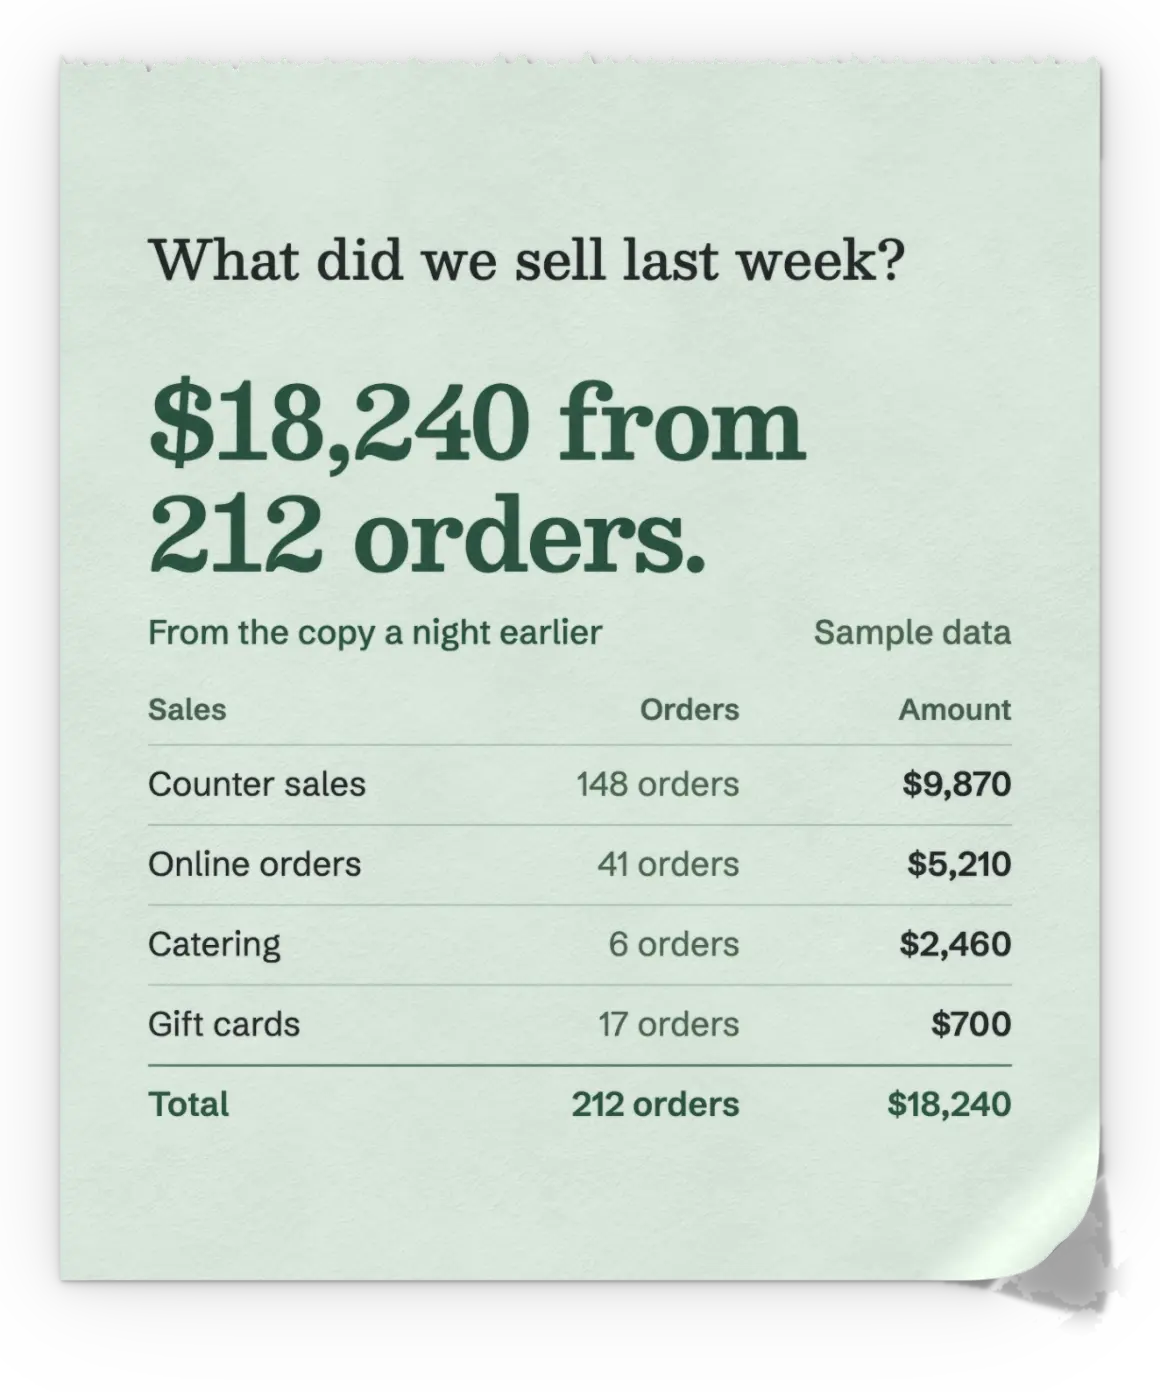
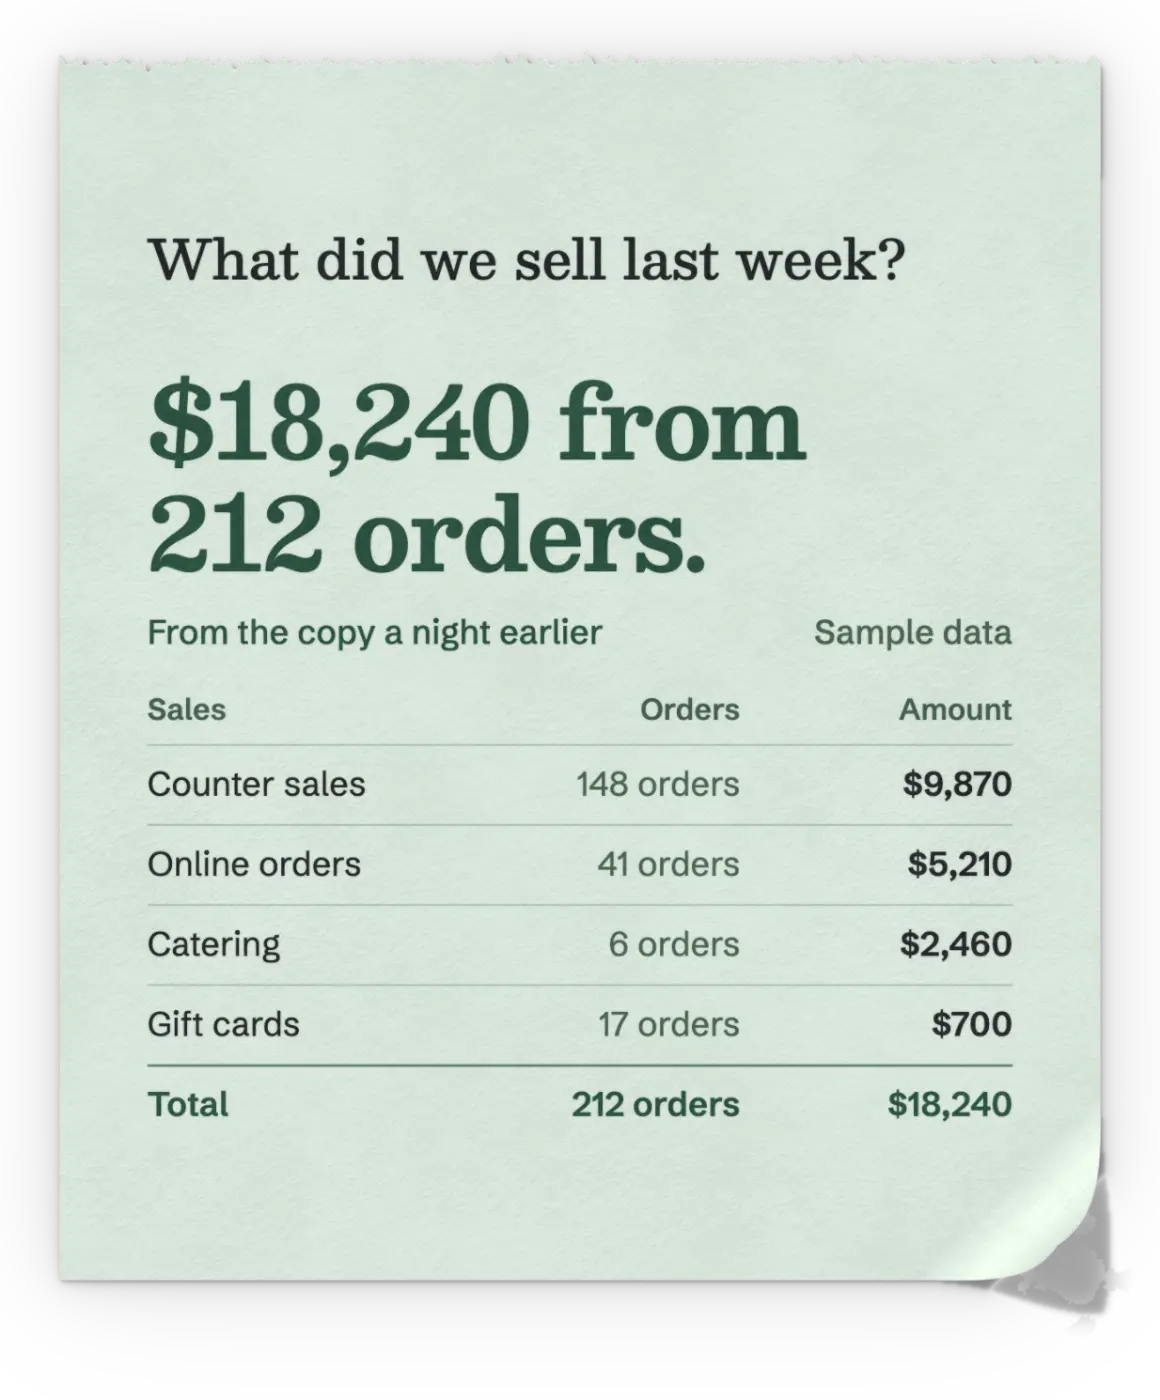
Solid rip, blank sheet under the peel, headline re-broken

diff --git a/motion.js b/motion.js
@@ -596,25 +596,11 @@ function idTexture(boxes) {   // each printed item of the copy as a flat block o
   for (const [k, v] of [[gl.TEXTURE_MIN_FILTER, gl.NEAREST], [gl.TEXTURE_MAG_FILTER, gl.NEAREST], [gl.TEXTURE_WRAP_S, gl.CLAMP_TO_EDGE], [gl.TEXTURE_WRAP_T, gl.CLAMP_TO_EDGE]]) gl.texParameteri(gl.TEXTURE_2D, k, v);
   return t;
 }
-function updateVis(tp) {   // which items of the copy the top sheet still covers, read from a small coverage render
-  const w = cov.w, h = cov.h;
-  gl.bindFramebuffer(gl.FRAMEBUFFER, cov.f); gl.viewport(0, 0, w, h);
-  gl.clearColor(0, 0, 0, 0); gl.clear(gl.COLOR_BUFFER_BIT); gl.disable(gl.BLEND);
-  drawSheets(2, st.p, tp);
-  gl.readPixels(0, 0, w, h, gl.RGBA, gl.UNSIGNED_BYTE, cov.buf);
-  const k = CAM_D / (CAM_D - Z_GREEN), sx = w / view.W, sy = h / view.H;
-  const X = u => (view.ox + (CAM[0] + (u - CAM[0]) * k) * view.s) * sx, Y = v => (view.oy + (CAM[1] + (v - CAM[1]) * k) * view.s) * sy;
-  let moving = false;
-  wordsCopy.slice(0, 48).forEach(([x0, y0, x1, y1], i) => {
-    const a0 = Math.max(0, Math.floor(X(x0 - 3))), a1 = Math.min(w - 1, Math.ceil(X(x1 + 3)));
-    const b0 = Math.max(0, Math.floor(Y(y0 - 3))), b1 = Math.min(h - 1, Math.ceil(Y(y1 + 3)));
-    let covered = false;
-    for (let yy = b0; yy <= b1 && !covered; yy++) { const row = (h - 1 - yy) * w; for (let xx = a0; xx <= a1; xx++) if (cov.buf[(row + xx) * 4 + 3] > 0) { covered = true; break; } }
-    const v = st.vis[i];
-    st.vis[i] = covered ? 0 : Math.min(1, v + st.dt / 110);   // hidden at once while covered; inks in quickly once wholly clear
-    if (st.vis[i] !== v && st.vis[i] < 1 && !covered) moving = true;
-  });
-  st.visMoving = moving;
+function updateVis() {   // the copy's print, all at once: none while the sheet is attached, all once it is torn free
+  const target = st.p >= T_TORN - 0.004 ? 1 : 0, v = (FIXED !== null || st.dbg) ? target : st.vis[0];
+  const nv = target ? Math.min(1, v + st.dt / 90) : 0;   // a 90 ms ease in, which nobody sees, under the leaving sheet
+  st.vis.fill(nv);
+  st.visMoving = nv > 0 && nv < 1;
 }
 function drawApp(phone) {         // the grey top sheet: the invoicing app's page, printed on coated stock
   const { cv, c } = inkCanvas();
@@ -650,7 +636,7 @@ function drawApp(phone) {         // the grey top sheet: the invoicing app's pag
 }
 
 // ---------------------------------------------------------------- state
-let inkIds = null, cov = null, phone = false, view = null, inkCopy = null, inkApp = null, wordsCopy = null, wordsApp = null, need = true;
+let inkIds = null, phone = false, view = null, inkCopy = null, inkApp = null, wordsCopy = null, wordsApp = null, need = true;
 let paperTex, edgeTex, meshBoard, meshStack, meshGreen, meshFringe, meshBind, meshTop;
 let maps = null;   // shadow map pyramid
 let DBG = null;    // 'app' | 'copy': tools/inkcheck.py draws one sheet alone
@@ -688,8 +674,7 @@ function resize() {
   if (maps) for (const m of maps.list) { gl.deleteTexture(m.t); gl.deleteFramebuffer(m.f); }
   const list = [0, 1, 2, 3, 4, 5, 6].map(() => mkTarget(mw, mh));
   maps = { w: mw, h: mh, k: mk, list, S: list.slice(0, 6), tmp: list[6] };
-  if (cov) { gl.deleteTexture(cov.t); gl.deleteFramebuffer(cov.f); }
-  { const w = Math.max(4, Math.round(view.W / 3)), h = Math.max(4, Math.round(view.H / 3)); cov = { ...mkTarget(w, h), w, h, buf: new Uint8Array(w * h * 4) }; }
+
   need = true;
 }
 function buildInk() {
@@ -698,7 +683,7 @@ function buildInk() {
   WORDS = []; inkCopy = tex(drawCopy(phone, slip), true, gl.CLAMP_TO_EDGE); wordsCopy = WORDS;   // the boxes, for tools/inkcheck.py
   WORDS = []; inkApp = tex(drawApp(phone), true, gl.CLAMP_TO_EDGE); wordsApp = WORDS;
   if (inkIds) gl.deleteTexture(inkIds);
-  inkIds = idTexture(wordsCopy); st.vis = new Float32Array(48).fill(1);
+  inkIds = idTexture(wordsCopy); st.vis = new Float32Array(48).fill(0);
   WORDS = null;
 }
 function buildMeshes() {
@@ -744,12 +729,13 @@ const endL = d => d <= PW ? [PW - d, PH] : [0, PH - (d - PW)];   // along the bo
 const endR = d => [PW, PH - d];
 function tearParams(p, aoff = 0) {
   let lift = 0, front = PW + 2, pull = [0, 0, 0, 0], fly = null, open = [1, 0, 0, 0];
-  const t = clamp(p / PA), e = 0.25 * t + 0.75 * ease(t);
-  // the resting corner: long along the bottom margin and low up the side, so it stays in the margin under the Total row
-  const dL0 = phone ? 232 : 240, dR0 = phone ? 84 : 86;
-  const g = smooth(PA, T_TORN, p);   // the corner keeps curling a little while the hand lifts
-  const dL = lerp(dL0, 360, e) + 30 * g, dR = lerp(dR0, 270, e) + 20 * g;
-  const R = lerp(33, 35, Math.pow(t, 0.7)), k = lerp(-0.12, -0.06, t);
+  // the peel: from rest to the strain the corner curl alone grows, steadily from the first step (the held sheet stays flat)
+  const t = clamp(p / P_TH), e = 0.45 * t + 0.55 * ease(t);
+  // the resting corner: long along the bottom margin and low up the side
+  const dL0 = phone ? 262 : 244, dR0 = phone ? 100 : 88;
+  const g = smooth(P_TH, T_TORN, p);   // in the rip the corner curls a little more as the sheet goes
+  const dL = lerp(dL0, 400, e) + 24 * g, dR = lerp(dR0, 300, e) + 16 * g;
+  const R = lerp(phone ? 38 : 33, 37, t), k = lerp(-0.12, -0.06, t);
   let { nn, c } = foldFrom(endL(dL), endR(dR));
   if (aoff) {                                    // the drag direction turns the curl a little about its middle
     const m = [(endL(dL)[0] + endR(dR)[0]) / 2, (endL(dL)[1] + endR(dR)[1]) / 2];
@@ -757,18 +743,18 @@ function tearParams(p, aoff = 0) {
     nn = [Math.cos(a), Math.sin(a)]; c = nn[0] * m[0] + nn[1] * m[1];
   }
   // the lift: the sheet bends up off the pad about a hinge line that climbs from the bottom to just under the perforation
-  const tl = smooth(PA, T_LIFT + 0.03, p);
+  const tl = smooth(P_TH, T_TORN, p);            // only in the rip: the sheet bends up off the pad as it is pulled away
   const hinge = lerp(PH - 10, 26, Math.pow(tl, 0.8));
-  let phiMax = 0.74 * smooth(PA, T_LIFT, p) + 0.2 * smooth(T_LIFT, T_TORN, p);   // the bend at the bottom edge, radians
-  lift = 2.4 * smooth(T_LIFT - 0.06, T_LIFT, p) * (1 - smooth(T_TORN - 0.03, T_TORN + 0.01, p));   // tension along the perforation
-  if (p >= T_LIFT) {
-    const tt = clamp((p - T_LIFT) / (T_TORN - T_LIFT));
+  let phiMax = 0.6 * tl;                          // the bend at the bottom edge, radians
+  lift = 1.4 * smooth(P_TH - 0.1, P_TH, p) * (1 - smooth(T_TORN - 0.03, T_TORN + 0.01, p));   // tension along the perforation
+  if (p >= P_TH) {
+    const tt = clamp((p - P_TH) / (T_TORN - P_TH));
     let f = PW * (1 - (0.2 * tt + 0.8 * ease(tt)));
     const kk = f / PITCH, fr = kk - Math.floor(kk);
     f = (Math.floor(kk) + smooth(0.3, 0.8, fr)) * PITCH;   // it hangs on each bridge, then lets go
     front = tt >= 1 ? -2 : f;
-    pull[3] = 4.5 * smooth(0, 0.3, tt);                      // the torn top edge springs up off the stub
-    pull[2] = 8 * smooth(0, 0.25, tt);                       // and draws back from it: a clean gap, not two edges over each other
+    pull[3] = 0;                                             // the torn top edge stays down on the pad: no lifted sliver
+    pull[2] = 5 * smooth(0, 0.25, tt);                       // and draws back from it: a clean gap, not two edges over each other
   }
   let fade = 0;
   if (p > T_TORN) {
@@ -780,7 +766,7 @@ function tearParams(p, aoff = 0) {
     const th = 1.5 * (0.35 * tf + 0.65 * ease(clamp(tf / 0.85)));   // a steady turn over the whole span
     phiMax = lerp(phiMax, 0.12, ease(clamp(tf / 0.3)));   // it keeps only a faint curve
     open = [R, k, 5000, 0.9 * ease(clamp(tf / 0.3))];       // and the corner curl springs open
-    pull[3] = lerp(4.5, 0, e1); pull[2] = 8;
+    pull[3] = 0; pull[2] = 5;
     const carry = Math.pow(smooth(0.34, 0.97, tf), 1.8);
     fly = { pitch: th, yaw: 0.12 * smooth(0.4, 1, tf), roll: -0.20 * smooth(0.4, 1, tf),
             t: [(phone ? 820 : 800) * carry, -8 * smooth(0, 0.4, tf), 36 * smooth(0, 0.3, tf)] };
@@ -910,7 +896,7 @@ function drawSheets(pass, P, tp) {
     gl.uniform1f(g.uFly, f); };
   // once it is free and thinning out, the sheet is drawn after the binding, so the binding shows through it, never cut away
   if (tp.fly) bind();
-  if (pass === 0 && st.trail && st.trail.length) {   // motion blur: the sheet a few milliseconds earlier, fainter, under it
+  if (false && pass === 0 && st.trail && st.trail.length) {   // motion blur: the sheet a few milliseconds earlier, fainter, under it
     gl.depthMask(false);
     for (const [pp, al] of st.trail) {
       const tq = tearParams(pp); if (tq.gone || !tq.fly) continue;
@@ -960,7 +946,7 @@ function frame(P) {
   bindShadows(g);
   gl.bindVertexArray(quadVao); gl.drawArrays(gl.TRIANGLE_STRIP, 0, 4);
   // 4. the paper (first: which items of the copy are uncovered)
-  if (!SHEET && cov) updateVis(tp);
+  if (!SHEET) updateVis();
   gl.bindFramebuffer(gl.FRAMEBUFFER, null); gl.viewport(0, 0, canvas.width, canvas.height);
   gl.enable(gl.BLEND); gl.blendEquation(gl.FUNC_ADD); gl.blendFunc(gl.ONE, gl.ONE_MINUS_SRC_ALPHA);
   drawSheets(0, P, tp);
@@ -1100,7 +1086,7 @@ function tick(now) {
     frame(st.p);
     st.frameMs.push(performance.now() - t0); if (st.frameMs.length > 600) st.frameMs.shift();
     need = false;
-    hint.style.opacity = String(1 - smooth(0.165, 0.185, st.p));   // the hint stays through the early peel, then goes at once
+    hint.style.opacity = st.mode === 'peel' && !st.dbg ? '1' : '0';   // the hint is there for the whole peel, gone once the sheet rips
     handle.style.display = st.mode === 'peel' ? '' : 'none';
     setLabel(st.p >= T_SAY);                    // the next step changes only once the sheet has gone
     doc.classList.toggle('is-torn', st.p >= T_SAY);

diff --git a/index.html b/index.html
@@ -119,14 +119,14 @@ html:not(.gl).is-torn .poster, html:not(.js) .hero:target .poster { visibility: 
   .gl .pin { height: 230svh; }
   .gl .hero { position: sticky; top: 0; }
   .frame { width: calc(1440 * var(--u)); height: calc(900 * var(--u)); }
-  .hero .brand { position: absolute; left: calc(104 * var(--u)); top: calc(36 * var(--u)); }
+  .hero .brand { position: absolute; left: calc(96 * var(--u)); top: calc(36 * var(--u)); }
   /* the words are one block, set against the pad's middle: headline, 48 under it the sentence, then the action */
-  .words { position: absolute; left: calc(104 * var(--u)); top: calc(206 * var(--u)); width: calc(600 * var(--u)); }
-  h1 { font-size: calc(80 * var(--u)); line-height: calc(90 * var(--u)); }
+  .words { position: absolute; left: calc(96 * var(--u)); top: calc(222 * var(--u)); width: calc(672 * var(--u)); }
+  h1 { font-size: calc(64 * var(--u)); line-height: calc(74 * var(--u)); }
   .support { margin-top: calc(36 * var(--u)); width: calc(470 * var(--u));
     font-size: max(17px, calc(19 * var(--u))); line-height: max(26px, calc(29 * var(--u))); }
   .acts { margin-top: calc(40 * var(--u)); }
-  .padbox { left: calc(724 * var(--u)); top: calc(74 * var(--u)); width: calc(600 * var(--u)); }
+  .padbox { left: calc(784 * var(--u)); top: calc(84 * var(--u)); width: calc(560 * var(--u)); }
 }
 
 /* ================= phone and narrow: words, the pad, then the action under the thumb ================= */
@@ -134,14 +134,14 @@ html:not(.gl).is-torn .poster, html:not(.js) .hero:target .poster { visibility: 
   .hero { min-height: 560px; display: flex; flex-direction: column; }
   .gl .pin { height: 220svh; }
   .gl .hero { position: sticky; top: 0; }
-  .frame { flex: 1; min-height: 0; display: flex; flex-direction: column; width: 100%; max-width: 600px; margin: 0 auto; padding: 18px 16px 52px; }
+  .frame { flex: 1; min-height: 0; display: flex; flex-direction: column; width: 100%; max-width: 600px; margin: 0 auto; padding: 16px 16px 44px; }
   .brand .name { font-size: 21px; }
-  h1 { margin-top: 24px; font-size: min(33px, 8.7vw); line-height: 1.12; }
+  h1 { margin-top: 20px; font-size: min(32px, 8.4vw); line-height: 1.12; }
   .support { margin-top: 12px; font-size: 15px; line-height: 21px; max-width: 34em; }
   .words { display: contents; }
-  .stage { position: relative; flex: 0 1 auto; aspect-ratio: 526 / 682; min-height: 0; margin-top: 20px; container-type: size; order: 4; }
+  .stage { position: relative; flex: 0 1 auto; aspect-ratio: 526 / 682; min-height: 0; margin-top: 16px; container-type: size; order: 4; }
   .acts { order: 5; }
-  .padbox { left: 50%; top: 0; transform: translateX(-50%); width: min(100cqw, 100cqh * 0.77126); }
+  .padbox { left: 0; top: 0; width: min(100cqw, 100cqh * 0.77126); }
   .acts { margin-top: 18px; min-height: 46px; }
   .act { height: 46px; line-height: 46px; padding: 0 20px; }
   .after { gap: 16px; }
